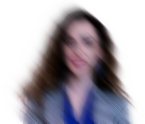
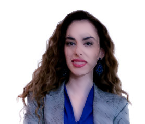
head hurts

diff --git a/project/gauss.py b/project/gauss.py
@@ -3,7 +3,7 @@ import numpy as np
 import multiprocessing as mp
 from multiprocessing import shared_memory
 
-thread_count = 10
+thread_count = 12
 
 
 def generate_norms(n, deviation):
@@ -11,12 +11,12 @@ def generate_norms(n, deviation):
     r = -2 * np.log(np.random.random(n))
 
     x = np.multiply(np.sqrt(r), np.cos(theta)) * deviation
-    # y = np.sqrt(r) * np.sin(theta) * deviation
+    y = np.sqrt(r) * np.sin(theta) * deviation
 
-    return x
+    return np.dstack((x, y))[0]
 
 
-def apply_gauss(img, compression=1, norm_count=100, deviation=1):
+def apply_gauss(img, compression=1, norm_count=100, deviation=1, mask=None):
     norms = generate_norms(norm_count, deviation)
 
     # get new list of rows based on compression
@@ -38,7 +38,7 @@ def apply_gauss(img, compression=1, norm_count=100, deviation=1):
 
     # create a thread for each set of lines
     for line_set in lines:
-        thread = mp.Process(target=apply_gauss_line_thread, args=(line_set, len(cols), img, rows, cols, norms,))
+        thread = mp.Process(target=apply_gauss_line_thread, args=(line_set, img, rows, cols, norms, mask,))
         threads.append(thread)
         thread.start()
 
@@ -55,20 +55,26 @@ def apply_gauss(img, compression=1, norm_count=100, deviation=1):
     return new_img2
 
 
-def apply_gauss_line_thread(lines, width, img, rows, cols, norms):
-
+def apply_gauss_line_thread(lines, img, rows, cols, norms, mask):
     # open shared memory
     existing_shm = shared_memory.SharedMemory(name='img')
     new_img = np.ndarray(shape=(len(rows), len(cols), img.shape[2]), dtype=np.uint8, buffer=existing_shm.buf)
 
     # compute values for all given lines
     for i in lines:
-        for j in range(width):
+        for j in range(len(cols)):
+
+            if mask is not None and not mask[rows[i], cols[j]]:
+                new_img[i, j] = img[rows[i], cols[j]]
+                continue
+
+            # print(dif[rows[i], cols[j]])
+
             points = [img[rows[i], cols[j]]]
 
             for norm in norms:
-                ii = rows[i] + int(norm)
-                jj = cols[j] + int(norm)
+                ii = rows[i] + int(norm[0])
+                jj = cols[j] + int(norm[1])
 
                 if 0 <= ii < img.shape[0] and 0 <= jj < img.shape[1]:
                     points.append(img[ii, jj])
@@ -81,4 +87,3 @@ def apply_gauss_line_thread(lines, width, img, rows, cols, norms):
             print("progress: " + str(round((i / lines[-1]) * 100, 2)) + "%")
 
     existing_shm.close()
-

diff --git a/project/main.py b/project/main.py
@@ -1,0 +1,71 @@
+import numpy as np
+import cv2
+import cv2.data
+
+from gauss import *
+
+from skimage.color import rgb2lab, lab2rgb, deltaE_ciede2000, deltaE_ciede94, deltaE_cie76, deltaE_cmc
+
+
+def get_image(name):
+    return cv2.imread(f"assets/{name}", cv2.IMREAD_COLOR)
+
+
+def smoothen(name, ext):
+    img = get_image(f"{name}.{ext}")
+    img = apply_gauss(img, 1, 20, 25)
+
+    cv2.imwrite(f"assets/{name}_smoothened.png", img)
+    cv2.imshow(name, img)
+
+
+def compress(name, ext):
+    img = get_image(f"{name}.{ext}")
+    img = apply_gauss(img, 10, 100, 10)
+
+    cv2.imwrite(f"assets/{name}compressed.png", img)
+    cv2.imshow(name, img)
+
+
+def expand(name, ext):
+    img = get_image(f"{name}.{ext}")
+    img = cv2.resize(img, (0, 0), fx=5, fy=5)
+    img = apply_gauss(img, 1, 50, 2.5)
+
+    cv2.imwrite(f"assets/{name}_expanded.png", img)
+    cv2.imshow(name, img)
+
+
+face_cascade = cv2.CascadeClassifier(cv2.data.haarcascades + "haarcascade_frontalface_default.xml")
+
+
+def hide_faces(img, compression=1, norm_count=10, deviation=10):
+    mask = np.full((img.shape[0], img.shape[1], 1), False)
+    faces = face_cascade.detectMultiScale(cv2.cvtColor(img, cv2.COLOR_BGR2GRAY), 1.2, 6)
+    for (x, y, w, h) in faces:
+        print("face detected!")
+        # cv2.rectangle(img, (x, y), (x + w, y + h), (255, 0, 0), 2)
+        mask[y:y + h, x:x + w] = True
+        pass
+
+    return apply_gauss(img, compression, norm_count, deviation, mask)
+
+
+def hide_faces_image(name, ext):
+    img = get_image(f"{name}.{ext}")
+    img = hide_faces(img)
+
+    cv2.imwrite(f"assets/{name}_masked.png", img)
+    cv2.imshow(name, img)
+
+
+if __name__ == '__main__':
+
+    # smoothen("moisil", "png")
+    # expand("cezara", "png")
+    # compress("sipos", "jpg")
+    # hide_faces_image("cezara3", "jpg")
+
+    cv2.waitKey(0)
+    cv2.destroyAllWindows()
+
